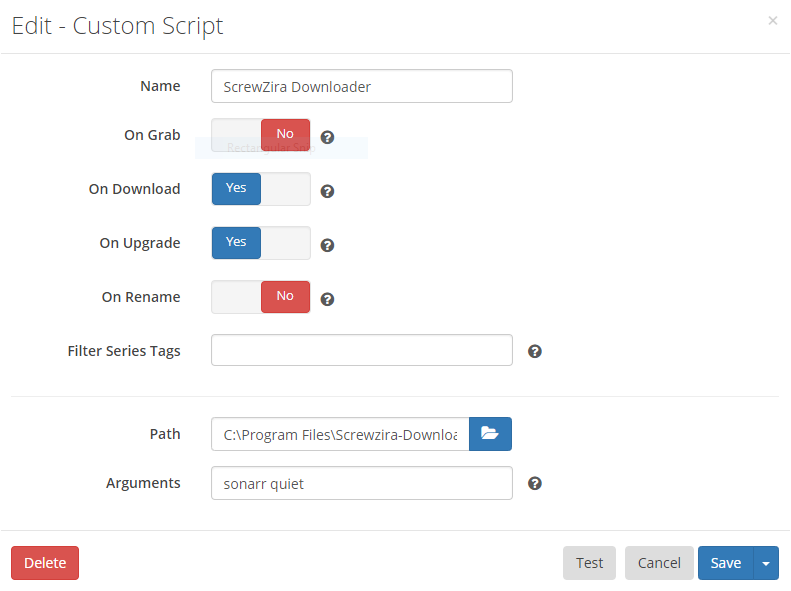
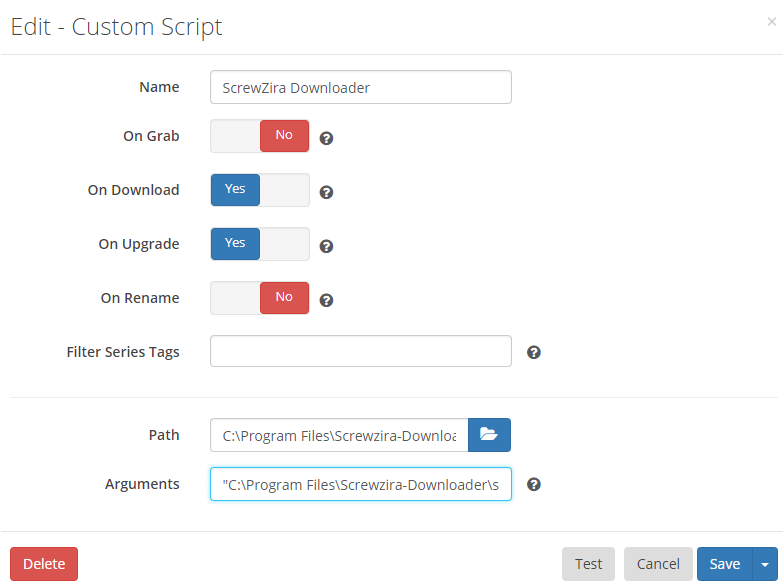
Explain configuration in Sonarr

diff --git a/README.md b/README.md
@@ -18,6 +18,10 @@ CLI for downloading Hebrew subtitles from screwzira.com using their API
 <br>Configuring sonarr:
 ![sonarr configuration](https://raw.githubusercontent.com/yoavain/screwzira-subtitle-downloader/master/resources/screenshots/sonarr-custom-script.png)
 
+<br>In order to have Silent launch of the downloader:
+<br>Path should be to the launcher: "C:\Program Files\Screwzira-Downloader\screwzira-downloader-launcher.exe"
+<br>Arguments should be: "C:\Program Files\Screwzira-Downloader\screwzira-downloader.exe" sonarr quiet
+
 <br>To build:
  * install nsis
  * npm install -g nexe
